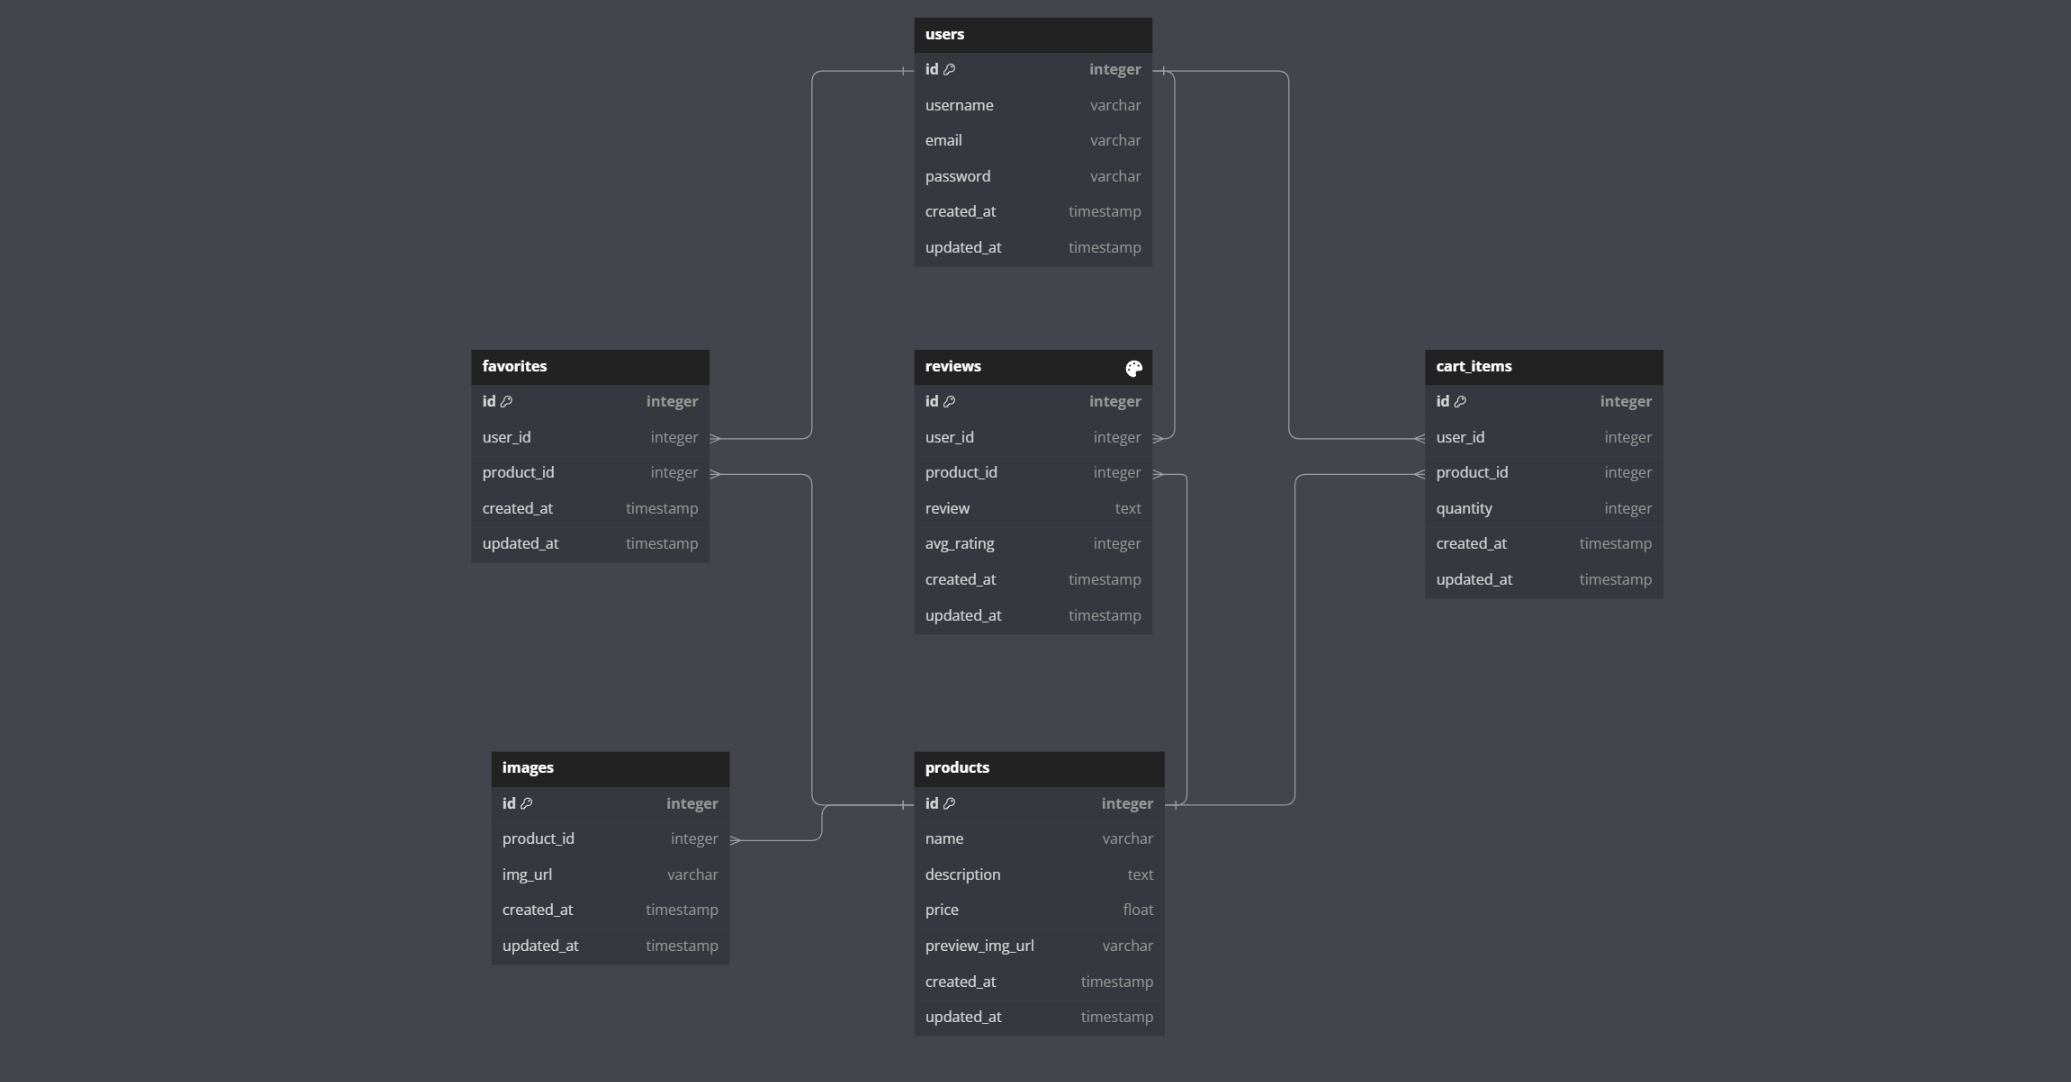
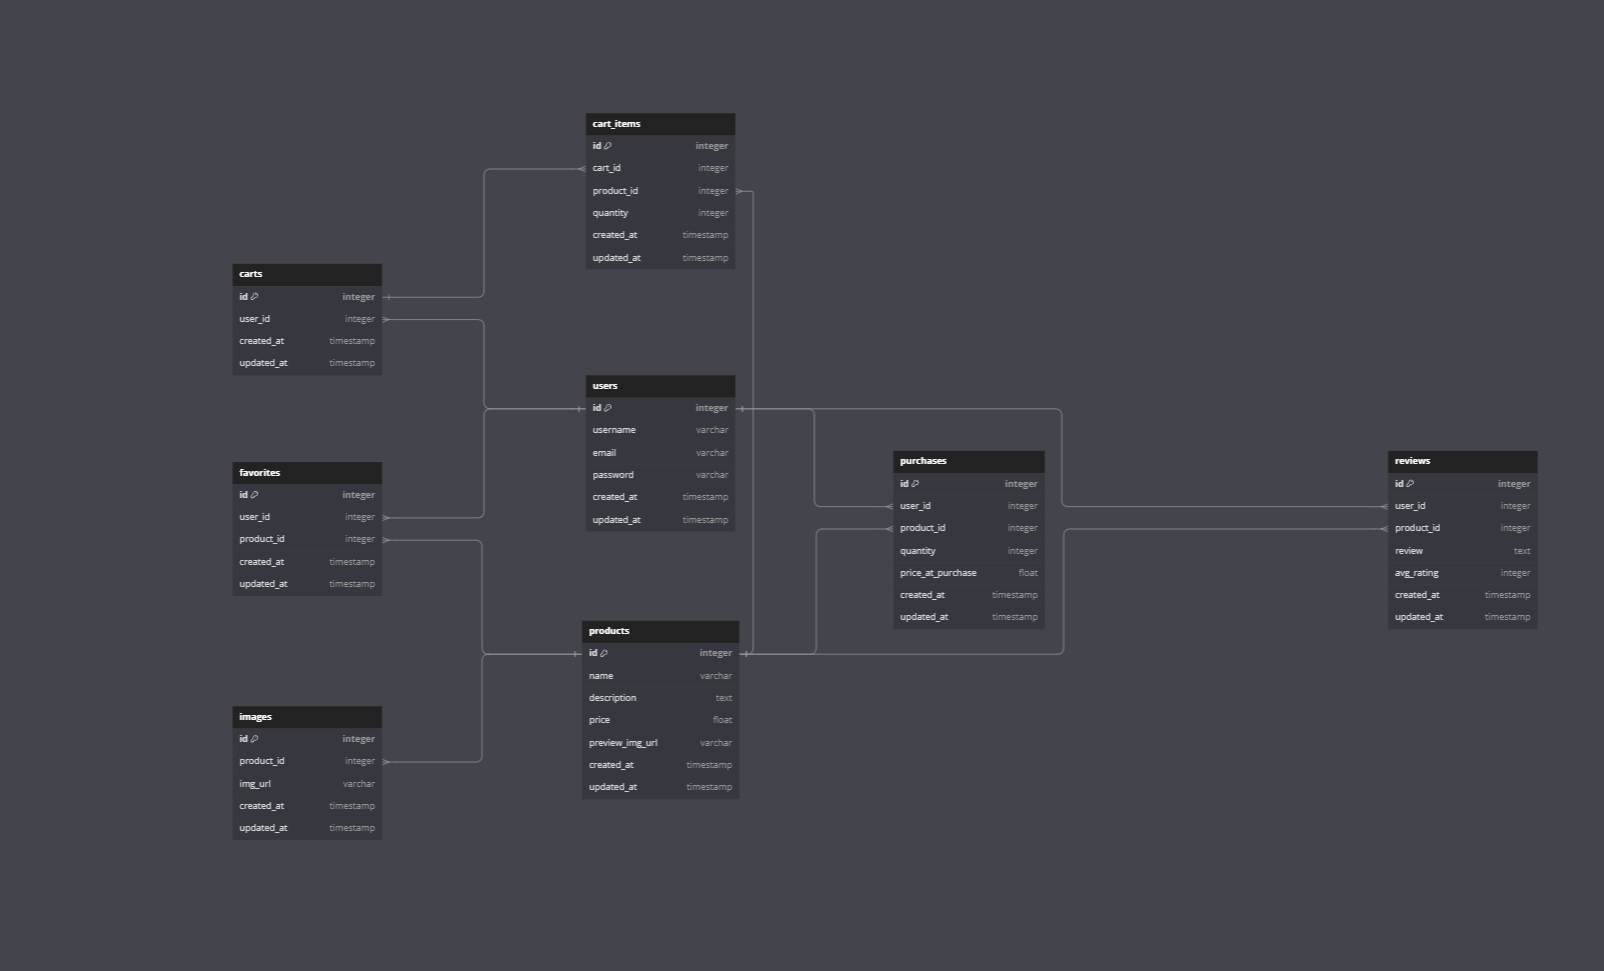
add cart, purchases to db_schema

diff --git a/app/models/__init__.py b/app/models/__init__.py
@@ -1,3 +1,3 @@
 from .db import db
-from .user import User
+from .models import User, Product, Image, Review, CartItem, Favorite
 from .db import environment, SCHEMA

diff --git a/README.md b/README.md
@@ -1,5 +1,71 @@
 # EpicBuy
 [LiveLink](https://epicbuy.onrender.com)
+
+# Features List - EpicBuy
+
+## Products
+- View all available products in the store.
+- View detailed information about a single product, including its name, description, price, average rating, and images.
+- Create a new product with a name, description, price, and preview image.
+- Update product details including name, description, price, and preview image.
+- Delete a product.
+
+## Reviews
+- View all reviews on a product.
+- Create a review for a product with a rating and comment.
+- Update a review for a product.
+- Delete a review from a product.
+
+## Shopping Cart
+- View all products added to the shopping cart.
+- Add products to the shopping cart.
+- Remove products from the shopping cart.
+- Perform a transaction to complete a purchase.
+
+## Favorites
+- View all favorite products.
+- Add products to the favorites.
+- Remove products from the favorites.
+
+## Images
+- View a preview image of a product.
+- View additional images of a product upon clicking on the preview image.
+- Add additional images to a product.
+- Delete additional images from a product.
+
+# User Stories
+
+## Products
+- Users should be able to view all products available in the store.
+- Users should be able to view details of a single product.
+- Users should be able to create a new product with a name, description, price, and preview image.
+- Users should be able to update their product details including name, description, price, and preview image.
+- Users should be able to delete their product.
+
+## Reviews
+- Users should be able to view all reviews on a product.
+- Users should be able to create a review for a product with a rating and comment.
+- Users should be able to update their review for a product.
+- Users should be able to delete their review from a product.
+
+## Shopping Cart
+- Users should be able to view all products added to their cart.
+- Users should be able to add products to their shopping cart.
+- Users should be able to remove products from their shopping cart.
+- Users should be able to perform a transaction to complete their purchase.
+
+## Favorites
+- Users should be able to view all of their favorite products.
+- Users should be able to add products to their favorites.
+- Users should be able to remove products from their favorites.
+
+## Images
+- Users should be able to view a preview image of a product.
+- Users should be able to view additional images of a product upon clicking on the preview image.
+- Users should be able to add additional images to their product.
+- Users should be able to delete additional images from their product.
+
+
 ## Database Schema Design
 ![db-schema](./images/DB_SCHEMA.png)
 
@@ -1311,35 +1377,10 @@ Removes a product from the current user's favorites.
     }
     ```
 
-# User Stories
-
-## Products
-- A user should be able to view all products available in the store.
-- A user should be able to view details of a single product.
-- A user should be able to create a new product with a name, description, price, and preview image.
-- A user should be able to update their product details including name, description, price, and preview image.
-- A user should be able to delete their product.
-
-## Reviews
-- A user should be able to view all reviews on a product.
-- A user should be able to create a review for a product with a rating and comment.
-- A user should be able to update their review for a product.
-- A user should be able to delete their review from a product.
-
-## Shopping Cart
-- A user should be able to view all products added to their cart.
-- A user should be able to add products to their shopping cart.
-- A user should be able to remove products from their shopping cart.
-- A user should be able to perform a transaction to complete their purchase.
-
-## Favorites
-- A user should be able to view all of their favorite products.
-- A user should be able to add products to their favorites.
-- A user should be able to remove products from their favorites.
-
-## Images
-- A user should be able to view a preview image of a product.
-- A user should be able to view additional images of a product upon clicking on the preview image.
-- A user should be able to add additional images to their product.
-- A user should be able to delete additional images from their product.
+## Database Schema Design
+![homepage](./images/wireframe/homepage.png)
+![products](./images/wireframe/products.png)
+![purchases](./images/wireframe/purchases.png)
+![details](./images/wireframe/details.png)
+![favorites](./images/wireframe/details.png)
 # EpicBuy
